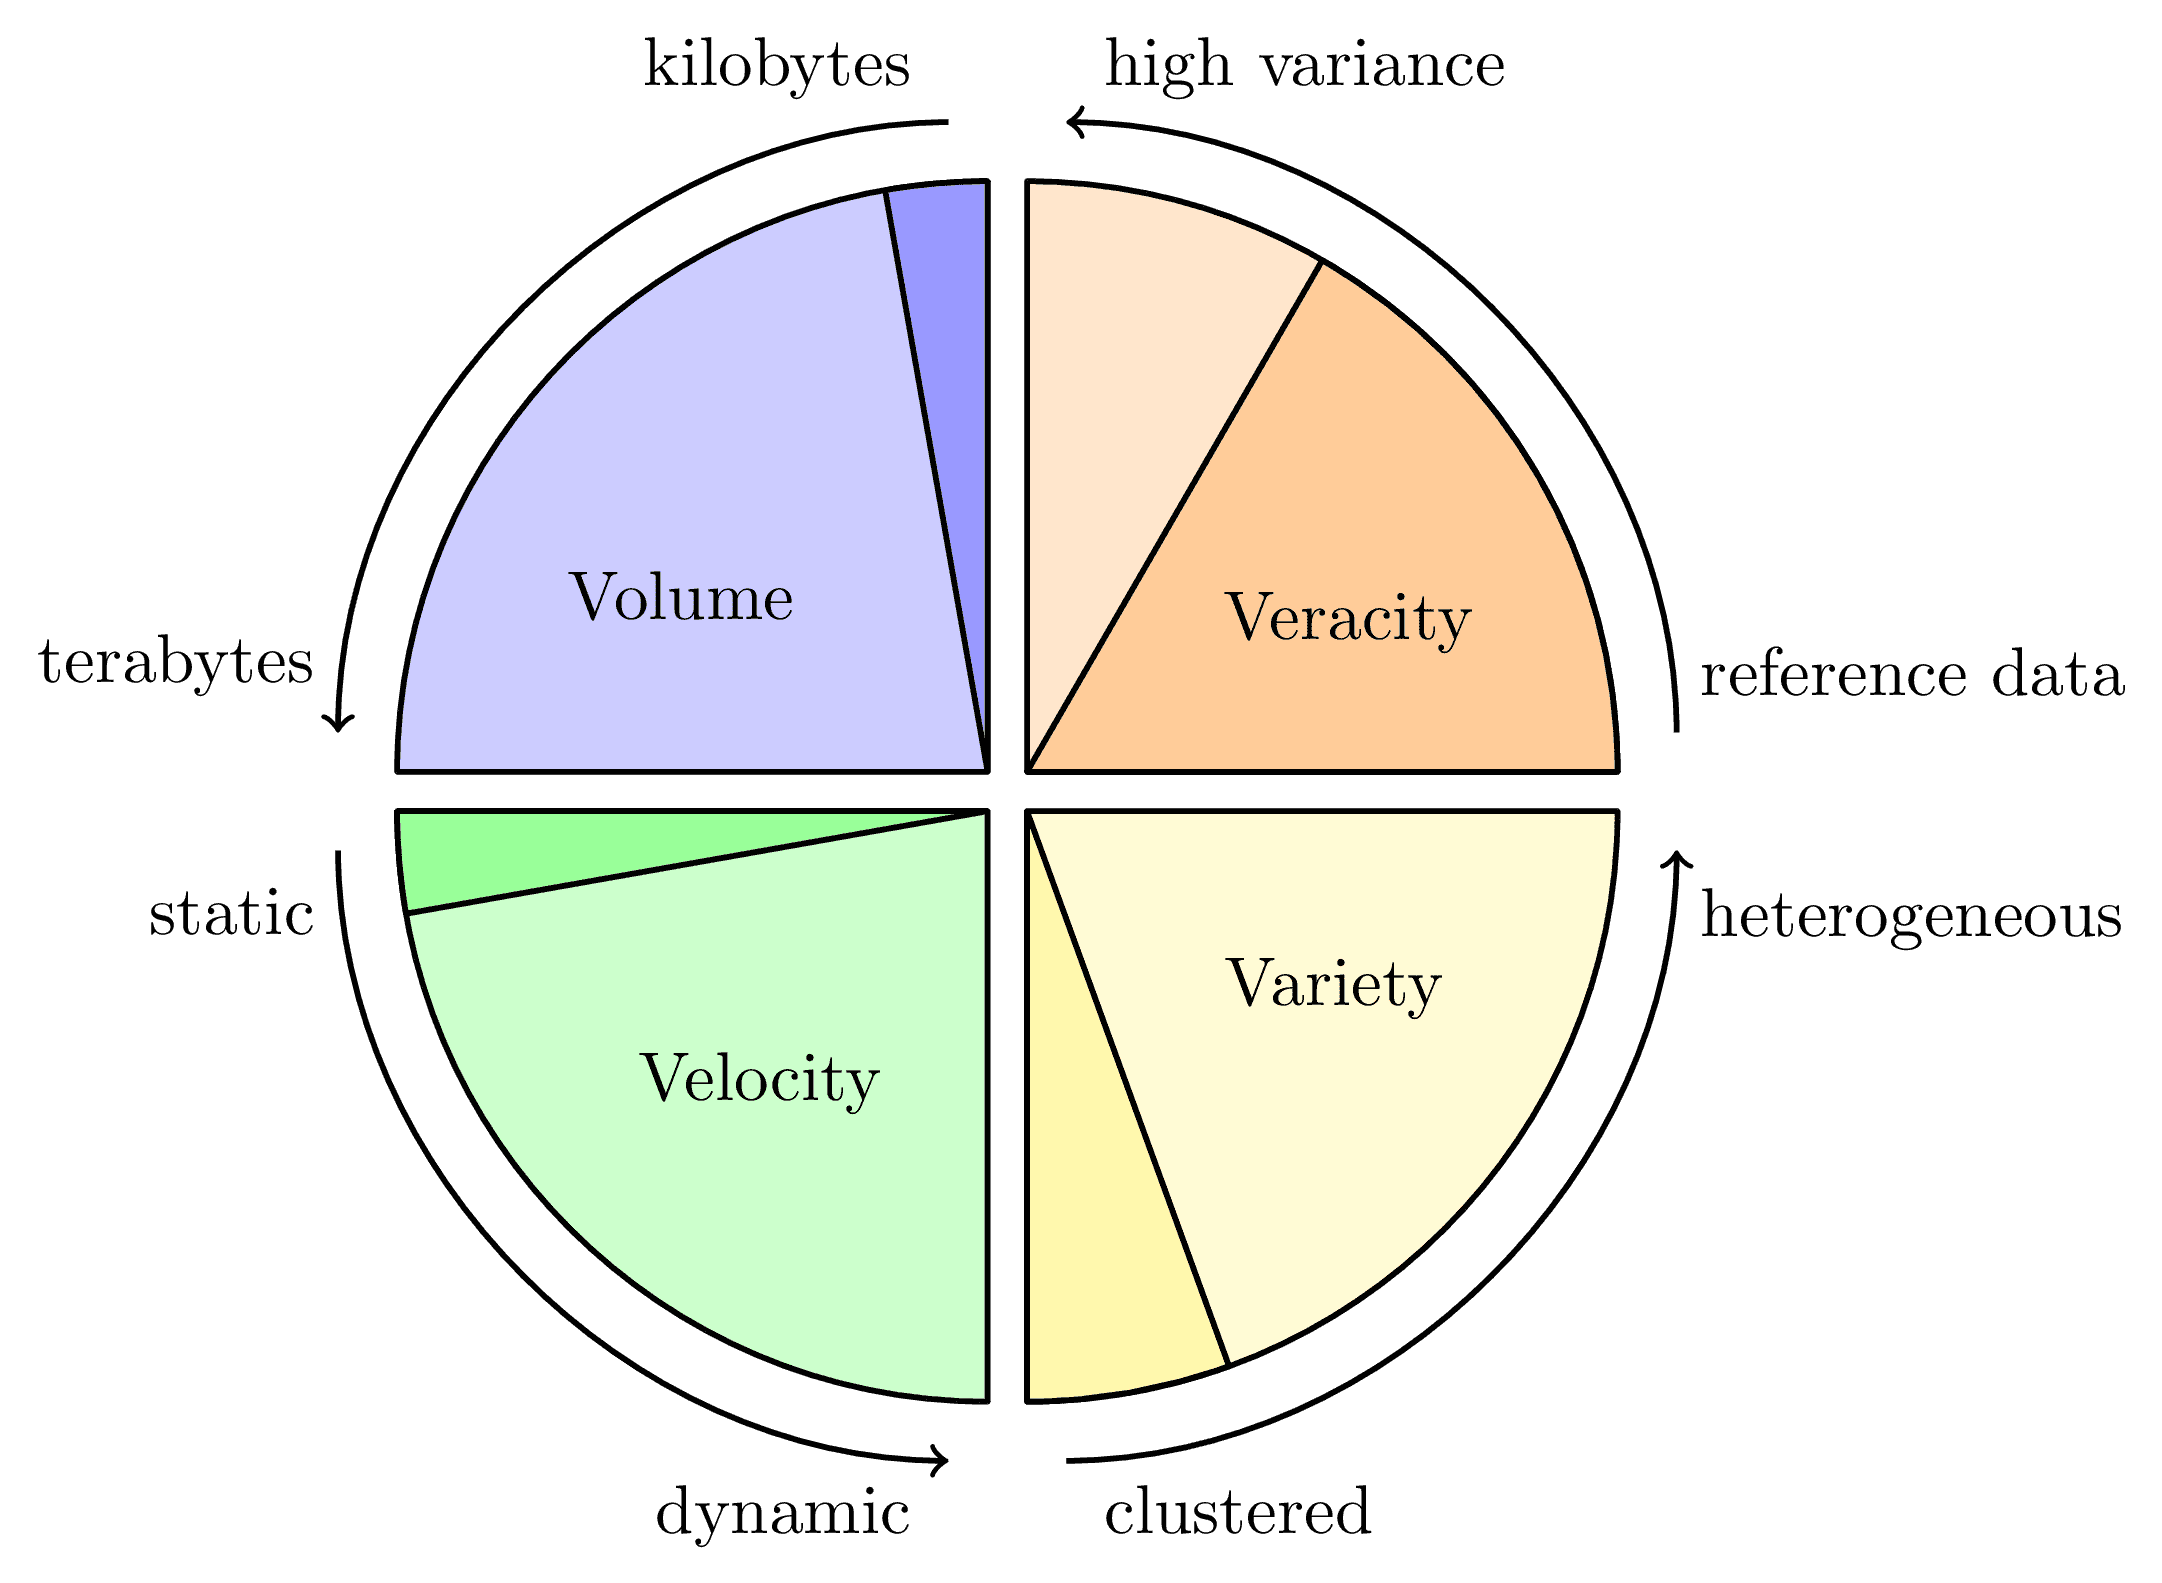
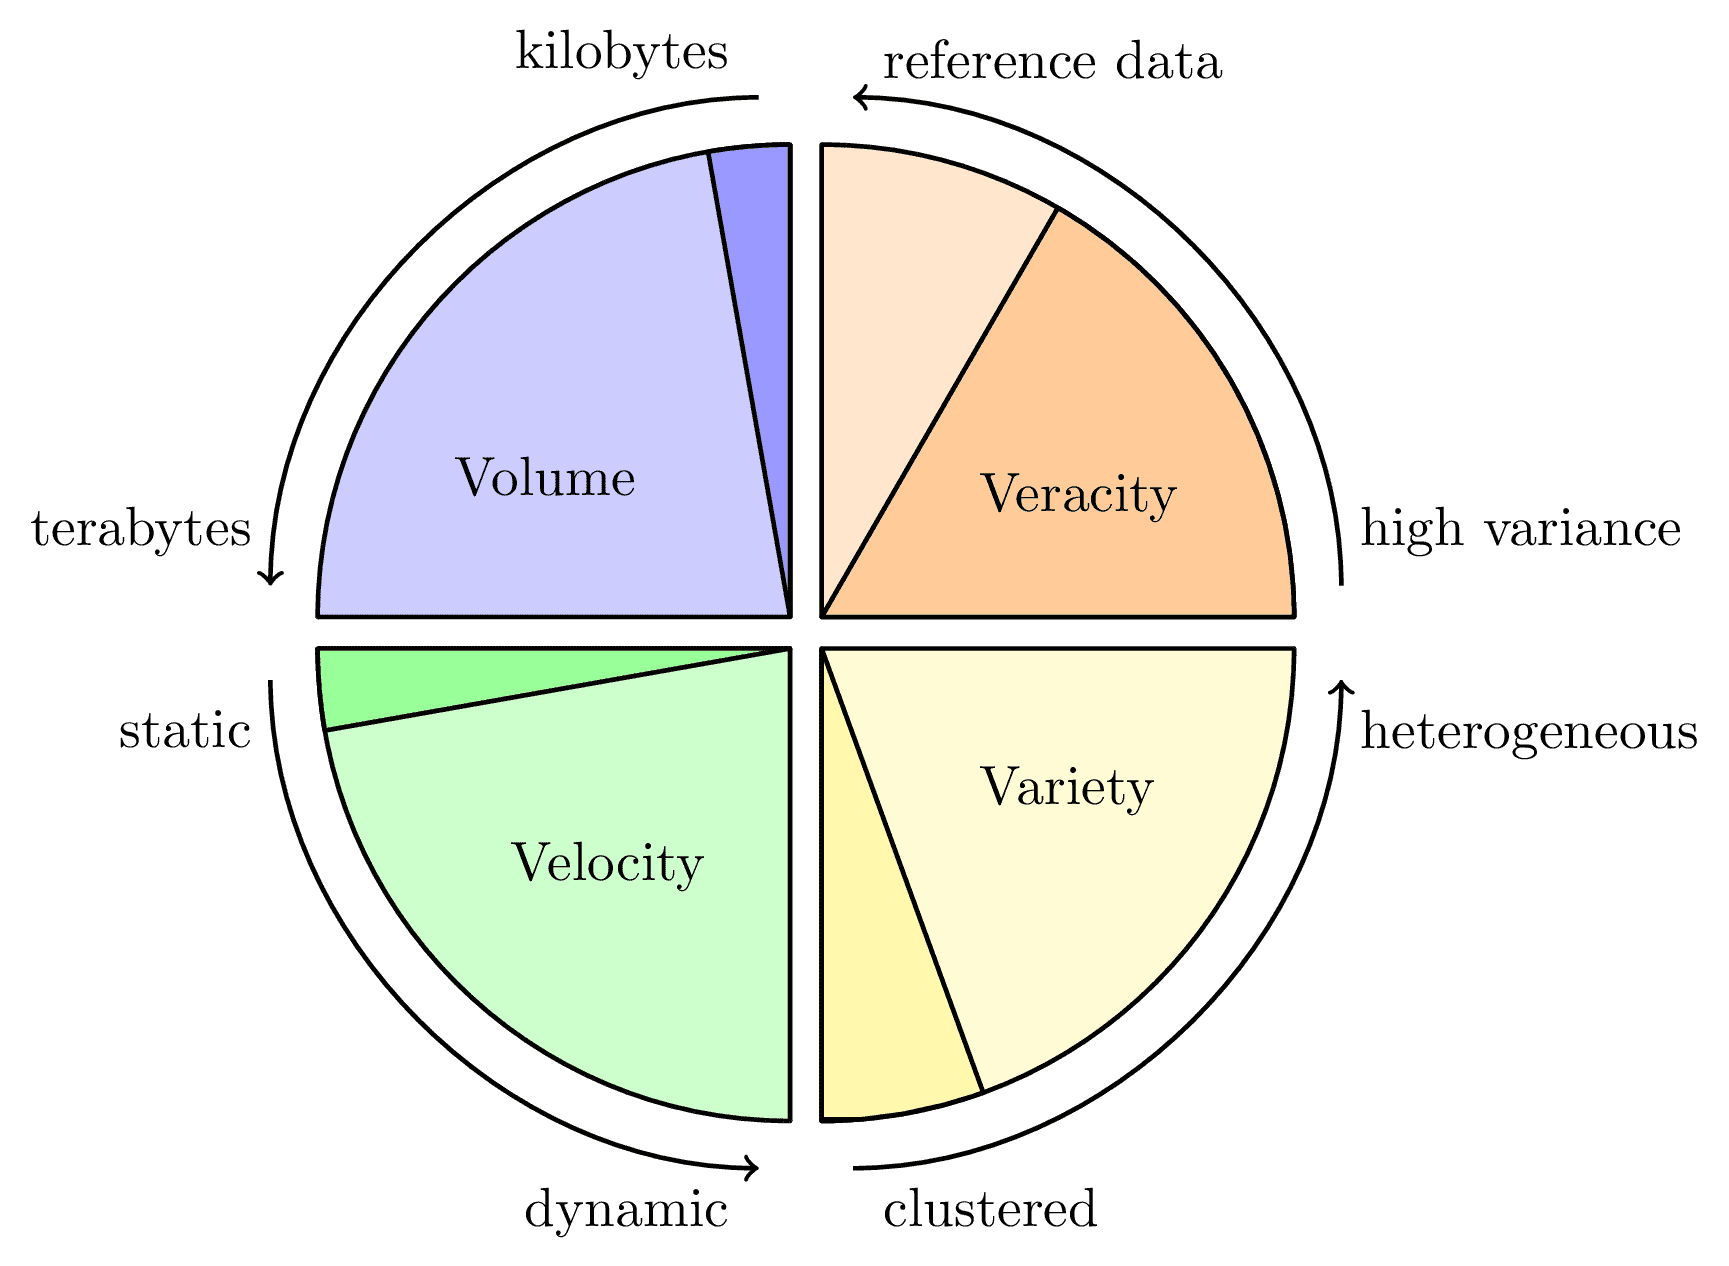
four-vs-of-data fix wrong order of veracity labels

diff --git a/assets/four-vs-of-data/four-vs-of-data.tex b/assets/four-vs-of-data/four-vs-of-data.tex
@@ -1,6 +1,7 @@
 % Inspired by fig. 1 in https://api.semanticscholar.org/CorpusID:137734316.
+% The state of the 4 Vs in this diagram applies to materials science.
 
-\documentclass[tikz, border=0 2]{standalone}
+\documentclass[tikz]{standalone}
 
 \def\rA{3cm}
 \def\rB{1.1 * \rA}
@@ -16,7 +17,7 @@
     \draw [fill=orange!20] (0:\rA) arc(0:90:\rA) |- cycle;
     \draw [fill=orange!40] (0:\rA) arc(0:60:\rA) -- (0,0) -- cycle;
     \node at (25:0.6*\rA) {Veracity};
-    \draw[direction] (0:\rB) arc(0:90:\rB) node[pos=0.05, above right] {reference data} node[pos=0.95, above right] {high variance};
+    \draw[direction] (0:\rB) arc(0:90:\rB) node[pos=0.05, above right] {high variance} node[pos=0.95, above right] {reference data};
   \end{scope}
 
   \begin{scope}[shift={(-\s,\s)}]
@@ -38,7 +39,6 @@
     \draw [fill=yellow!40] (270:\rA) arc(270:290:\rA) -- (0,0) -- cycle;
     \node at (330:0.6*\rA) {Variety};
     \draw[direction] (270:\rB) arc(-90:0:\rB) node[pos=0.05, below right] {clustered} node[pos=0.95, below right] {heterogeneous};
-
   \end{scope}
 
 \end{tikzpicture}
